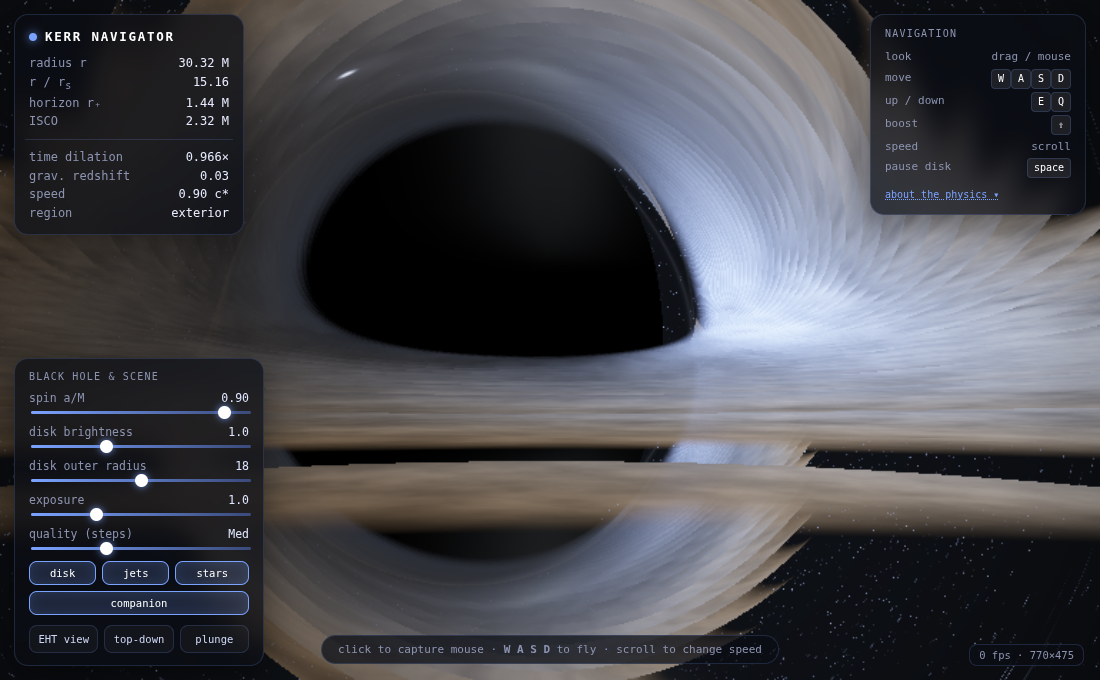
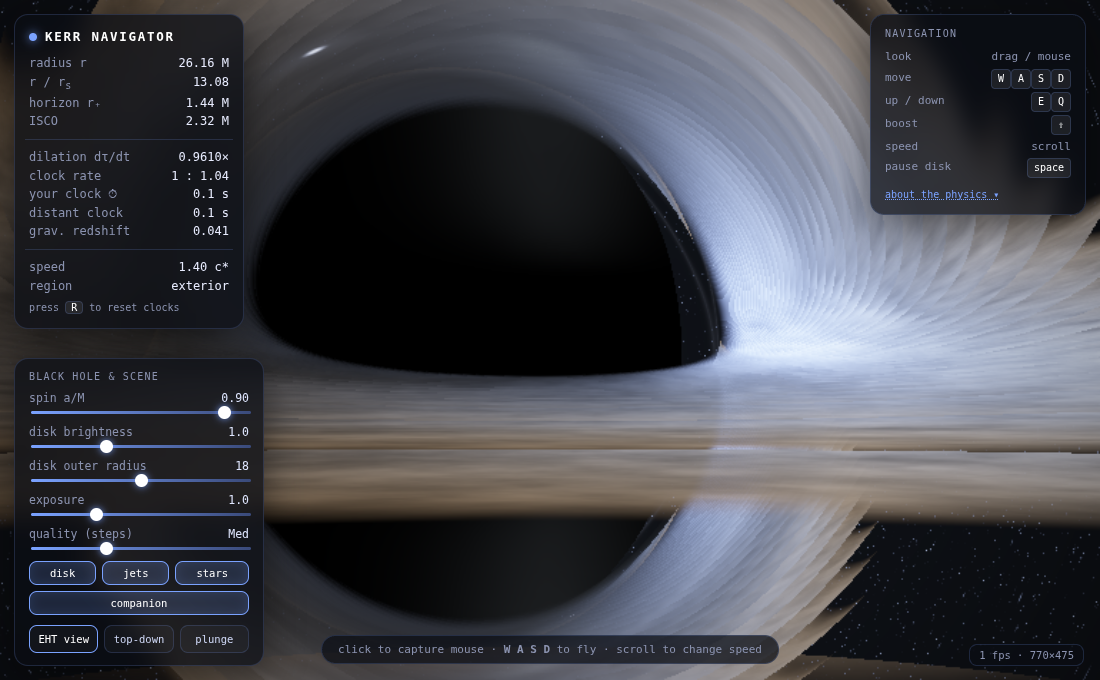
Add live twin-paradox time-dilation clocks to HUD
- dτ/dt from the full observer 4-velocity: gravitational + velocity dilation
- your proper-time clock vs. a distant (infinity) observer clock, accumulated
  live, with a 1:X clock-rate ratio and a running 'ahead' lag readout
- clocks reset on teleport (preset jump) and on the R key
- zero the velocity estimate across teleports to avoid a one-frame dilation spike

Verified headless: dilation matches the analytic static value (0.8824x vs
sqrt(1-2/9)=0.8826 at r~9), clocks accumulate, reset works, no JS errors.

Claude-Session: https://claude.ai/code/session_01MKTXeEgDzLMrGZ2BWgZtYy

diff --git a/index.html b/index.html
@@ -88,10 +88,15 @@
   <div class="row"><span class="k">horizon r₊</span><span class="v" id="hHor">–</span></div>
   <div class="row"><span class="k">ISCO</span><span class="v" id="hIsco">–</span></div>
   <div class="sep"></div>
-  <div class="row"><span class="k">time dilation</span><span class="v" id="hDil">–</span></div>
+  <div class="row"><span class="k">dilation dτ/dt</span><span class="v" id="hDil">–</span></div>
+  <div class="row"><span class="k">clock rate</span><span class="v" id="hRate">–</span></div>
+  <div class="row"><span class="k">your clock ⏱</span><span class="v" id="hYou">0.0 s</span></div>
+  <div class="row"><span class="k">distant clock</span><span class="v" id="hFar">0.0 s</span></div>
   <div class="row"><span class="k">grav. redshift</span><span class="v" id="hZ">–</span></div>
+  <div class="sep"></div>
   <div class="row"><span class="k">speed</span><span class="v" id="hSpd">–</span></div>
   <div class="row"><span class="k">region</span><span class="v" id="hZone">exterior</span></div>
+  <div class="row" style="margin-top:5px"><span class="k" style="font-size:10px">press <kbd style="background:rgba(255,255,255,.08);border:1px solid var(--edge);border-radius:4px;padding:0 5px;color:#fff">R</kbd> to reset clocks</span><span class="v" id="hLag" style="font-size:10px"></span></div>
 </div>
 
 <div id="help" class="panel">
@@ -488,6 +493,10 @@ const state = {
 };
 const QSTEPS = [70,120,190,300], QNAME=['Low','Med','High','Ultra'];
 
+// twin-paradox clocks: your accumulated proper time vs. a far observer's time
+let clkYou = 0, clkFar = 0;
+function resetClocks(){ clkYou = 0; clkFar = 0; }
+
 // camera basis from yaw/pitch.  World-up is +Z, the black-hole spin axis, so the
 // equatorial accretion disk (z=0) reads as a horizontal "ground" plane.
 function basis(){
@@ -518,6 +527,7 @@ const keys={};
 addEventListener('keydown',e=>{
   keys[e.code]=true;
   if(e.code==='Space'){ state.paused=!state.paused; e.preventDefault(); }
+  if(e.code==='KeyR'){ resetClocks(); }
 });
 addEventListener('keyup',e=> keys[e.code]=false);
 
@@ -560,7 +570,7 @@ document.querySelectorAll('.chip').forEach(c=>c.addEventListener('click',()=>{
   const t=c.dataset.t; state.show[t]=!state.show[t]; c.classList.toggle('on',state.show[t]);
 }));
 document.querySelectorAll('.presets button').forEach(b=>b.addEventListener('click',()=>{
-  const p=b.dataset.p;
+  const p=b.dataset.p; resetClocks(); state.teleport=true;   // teleport breaks worldline continuity
   if(p==='eht'){ state.pos=[0.0,-26.0,3.0]; state.yaw=Math.PI/2; state.pitch=-0.10; }
   if(p==='top'){ state.pos=[0.01,0.0,26.0]; state.yaw=Math.PI/2; state.pitch=-1.55; }
   if(p==='plunge'){ state.pos=[0.0,-9.0,1.2]; state.yaw=Math.PI/2; state.pitch=-0.05; state.moveSpeed=1.4; }
@@ -580,6 +590,26 @@ document.getElementById('aboutBody').innerHTML =
 function ksR(p,a){ const a2=a*a, rho2=p[0]*p[0]+p[1]*p[1]+p[2]*p[2], t=rho2-a2;
   return Math.sqrt(0.5*(t+Math.sqrt(Math.max(t*t+4*a2*p[2]*p[2],0)))); }
 function fOf(p,a){ const r=ksR(p,a), r2=r*r; return 2*r2*r/(r2*r2+a*a*p[2]*p[2]+1e-9); }
+function ksL(p,a){ const r=ksR(p,a), inv=1/(r*r+a*a);
+  return [(r*p[0]+a*p[1])*inv, (r*p[1]-a*p[0])*inv, p[2]/r]; }
+// dτ/dt for an observer with coordinate 3-velocity v, in the Kerr–Schild metric:
+// dτ/dt = sqrt(-(g_tt + 2 g_ti v^i + g_ij v^i v^j)),  g_tt=-1+f, g_ti=f l_i, g_ij=δ_ij+f l_i l_j
+function dilationFactor(p,v,a){
+  const f=fOf(p,a), l=ksL(p,a);
+  const lv=l[0]*v[0]+l[1]*v[1]+l[2]*v[2];
+  const vv=v[0]*v[0]+v[1]*v[1]+v[2]*v[2];
+  const S=(-1+f) + 2*f*lv + (vv + f*lv*lv);
+  return S<0 ? Math.sqrt(-S) : 0;   // 0 → not a valid timelike observer here
+}
+function fmtT(s){
+  if(!isFinite(s)) return '∞';
+  if(s<90)      return s.toFixed(1)+' s';
+  if(s<5400)    return (s/60).toFixed(1)+' min';
+  if(s<172800)  return (s/3600).toFixed(2)+' hr';
+  if(s<3.15e7)  return (s/86400).toFixed(2)+' days';
+  if(s<3.15e10) return (s/3.15576e7).toFixed(2)+' yr';
+  return (s/3.15576e10).toFixed(2)+' kyr';
+}
 
 // ---------------- main loop ----------------
 resize();
@@ -597,6 +627,7 @@ function frame(now){
   if(keys['KeyE'])add([0,0,1],1); if(keys['KeyQ'])add([0,0,1],-1);
   const mlen=Math.hypot(mv[0],mv[1],mv[2]);
   if(mlen>1e-4){ for(let i=0;i<3;i++){ state.pos[i]+=mv[i]/mlen*sp*dt; } }
+  if(state.teleport){ prevPos=state.pos.slice(); state.teleport=false; }   // no velocity spike after a jump
   // coordinate velocity (for observer frame / Doppler)
   state.vel=[ (state.pos[0]-prevPos[0])/Math.max(dt,1e-3),
               (state.pos[1]-prevPos[1])/Math.max(dt,1e-3),
@@ -632,7 +663,14 @@ function frame(now){
   const r=ksR(p,a);
   const rHor=1+Math.sqrt(Math.max(1-a*a,0));
   const f=fOf(p,a);
-  const dil = 1-f>0 ? Math.sqrt(1-f) : 0;             // dτ/dt, static observer
+  const fgrav = 1-f>0 ? Math.sqrt(1-f) : 0;           // gravitational-only (static obs)
+  // full dilation including the camera's motion (gravitational + velocity)
+  let D = dilationFactor(p, state.vel, a);
+  if(!(D>0)) D = fgrav;                               // fall back if not timelike (e.g. still, in ergosphere)
+  const Dsafe = Math.max(D, 1e-4);
+  // accumulate clocks: you live in real time; the distant clock races ahead by 1/D
+  clkYou += dt;
+  clkFar += dt / Dsafe;
   const Z1=1+Math.pow(1-a*a,1/3)*(Math.pow(1+a,1/3)+Math.pow(1-a,1/3));
   const Z2=Math.sqrt(3*a*a+Z1*Z1);
   const rIsco=3+Z2-Math.sqrt(Math.max((3-Z1)*(3+Z1+2*Z2),0));
@@ -641,8 +679,15 @@ function frame(now){
   set('hRs',(r/2).toFixed(2));
   set('hHor', rHor.toFixed(2)+' M');
   set('hIsco', rIsco.toFixed(2)+' M');
-  if(1-f>0){ set('hDil', dil.toFixed(3)+'×'); set('hZ', (dil>0?(1/dil-1):Infinity).toFixed(2)); }
-  else { set('hDil','frame-drag','hot'); set('hZ','—','hot'); }
+  const near = D<0.9;                                 // highlight when dilation is significant
+  set('hDil', D>0.0001 ? D.toFixed(4)+'×' : '≈0 (frozen)', D<0.5?'hot':'');
+  set('hRate', '1 : '+ (Dsafe>0? (1/Dsafe).toFixed(2):'∞'), near?'hot':'');
+  set('hYou', fmtT(clkYou));
+  set('hFar', fmtT(clkFar), near?'hot':'');
+  set('hZ', fgrav>0 ? (1/fgrav-1).toFixed(3) : '∞', '');
+  // running "lag": how far the distant universe has pulled ahead of you
+  const lag = clkFar - clkYou;
+  set('hLag', lag>0.5 ? '+'+fmtT(lag)+' ahead' : '', 'hot');
   set('hSpd', state.moveSpeed.toFixed(2)+' c*');
   if(r < rHor){ set('hZone','⚠ INSIDE HORIZON','warn'); }
   else if(f>1){ set('hZone','ergosphere','hot'); }

diff --git a/README.md b/README.md
@@ -24,11 +24,24 @@ use the **quality** slider to trade resolution/steps for framerate on weaker har
 | Boost | hold `Shift` |
 | Change speed | scroll wheel |
 | Pause disk rotation | `Space` |
+| Reset the clocks | `R` |
 | Presets | **EHT view**, **top-down**, **plunge** buttons |
 
 The **HUD** (top-left) reads out your radius in gravitational radii `M` and Schwarzschild radii
-`rₛ`, the horizon and ISCO radii, gravitational time dilation `dτ/dt`, redshift, and your region
-(exterior → ergosphere → **inside the horizon**).
+`rₛ`, the horizon and ISCO radii, redshift, and your region (exterior → ergosphere → **inside the
+horizon**).
+
+### Time-dilation clock (the twin paradox, live)
+
+The HUD runs two clocks side by side: **your clock** (proper time you experience) and a **distant
+clock** (a far-away observer, effectively at infinity). It also shows the instantaneous factor
+`dτ/dt` and the ratio as `1 : X`. The dilation combines **both** effects — gravitational
+(from your depth in the potential) *and* velocity (from how fast you're moving), computed from your
+full 4-velocity in the metric, so orbiting fast deep in the well slows your clock more than either
+effect alone. Hover near the horizon and watch the distant clock — and the "+… ahead" lag — race
+away from you, exactly the effect that ages Miller's-planet an hour-for-seven-years in *Interstellar*.
+Teleporting via a preset resets the clocks (a jump isn't a continuous worldline). Press `R` to reset
+manually.
 
 ## The physics (what's actually being computed)
 
@@ -52,6 +65,8 @@ The **HUD** (top-left) reads out your radius in gravitational radii `M` and Schw
 - **Sky.** A procedural multi-layer starfield + Milky-Way band + a lensed **companion star**, all
   sampled along each ray's *final* (bent) direction — so the background visibly warps and can form
   multiple images as you move.
+- **Time dilation.** `dτ/dt = √(−(g_tt + 2 g_ti vⁱ + g_ij vⁱvʲ))` for your actual 4-velocity —
+  the combined gravitational + kinematic slowdown — accumulated live into your-vs-distant clocks.
 
 Units are geometric: `G = c = M = 1`, distances in gravitational radii.
 
